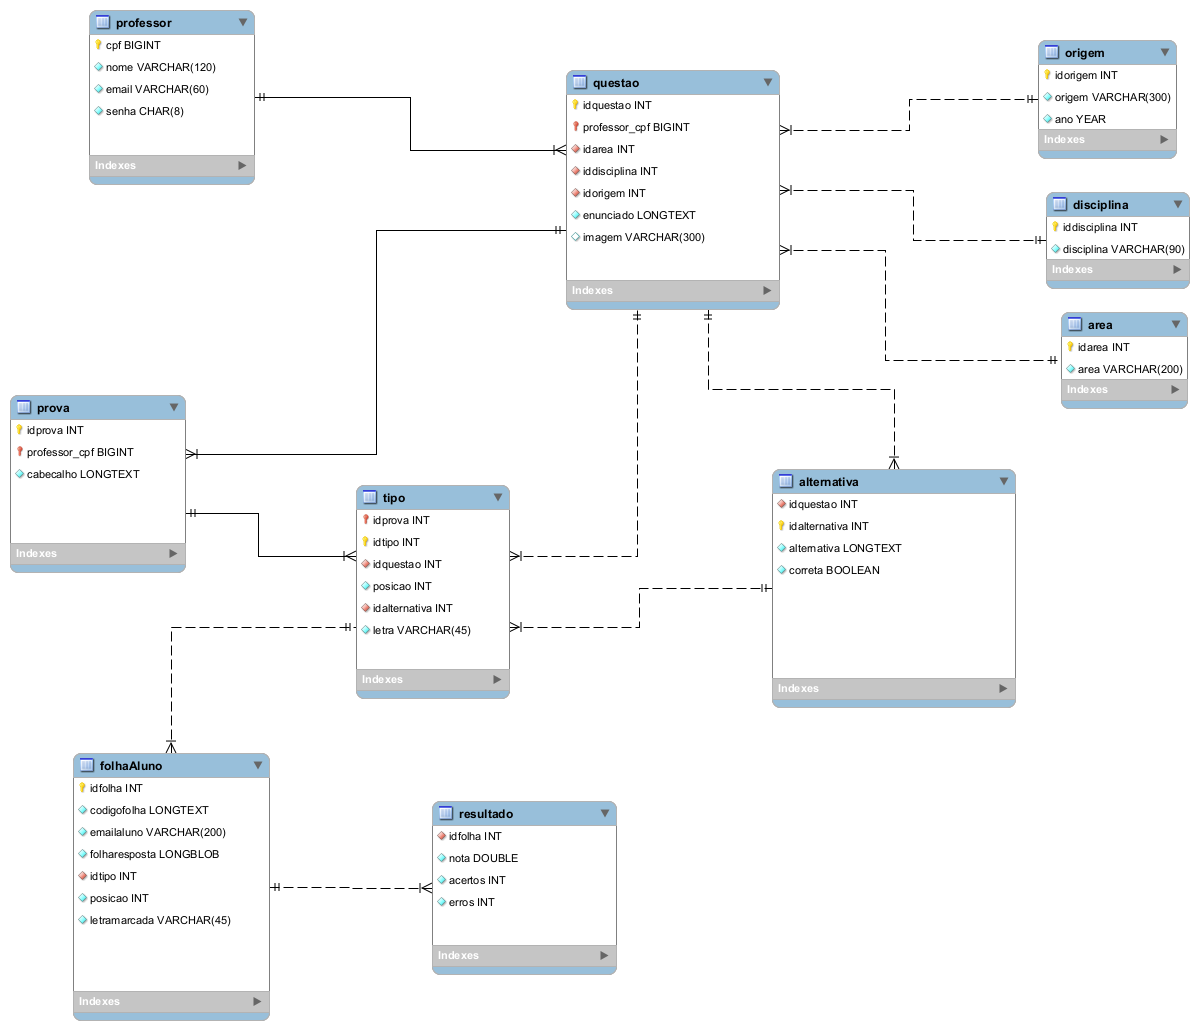
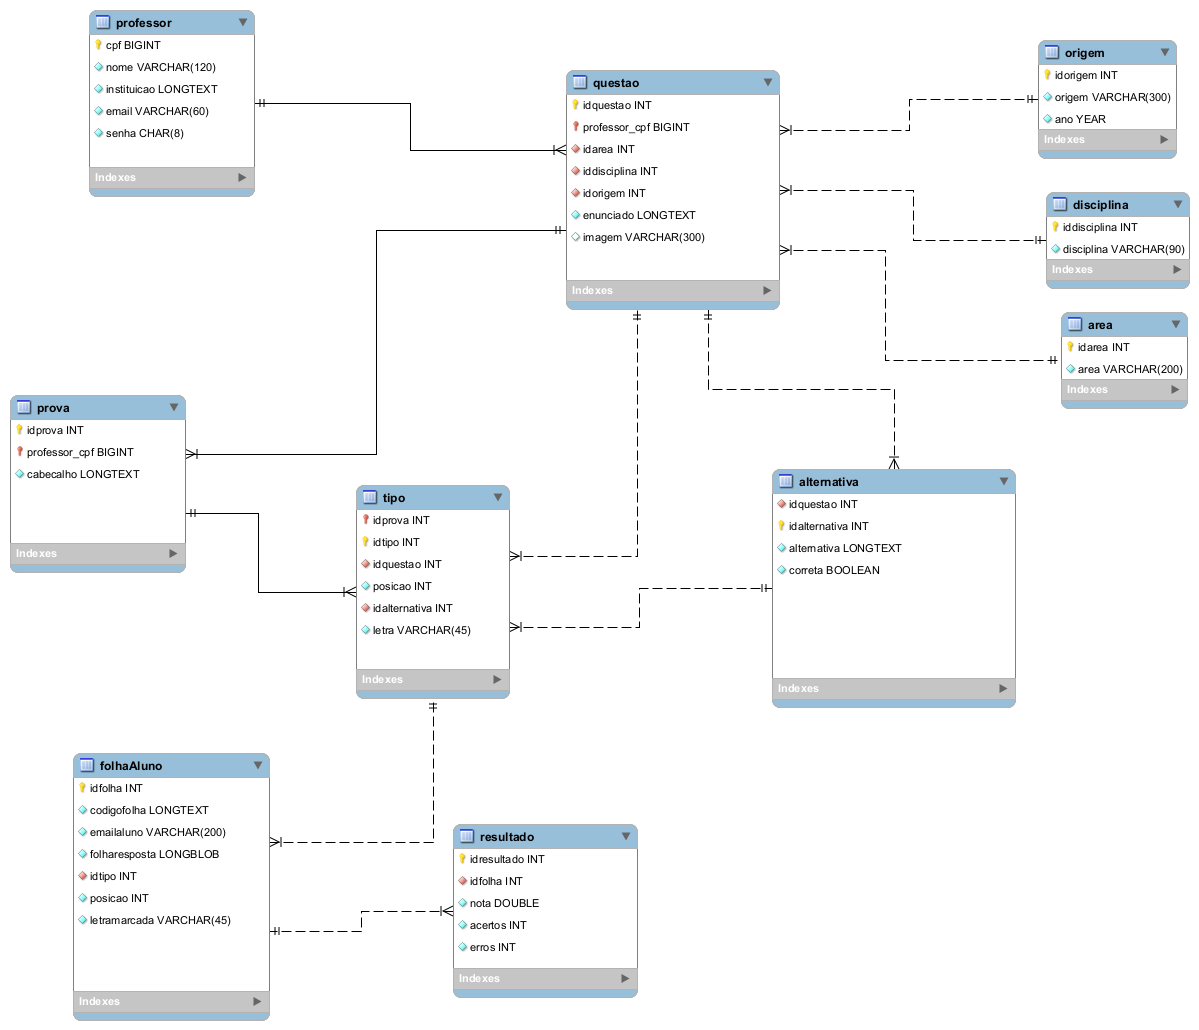
Classe Professor pronta

Changed region(s): [[0.3394, 0.7767, 0.5555, 0.9942], [0.0617, 0.0621, 0.216, 0.2175]]

diff --git a/code/src/gerador_provas/dao/ProfessorDAO.java b/code/src/gerador_provas/dao/ProfessorDAO.java
@@ -2,6 +2,7 @@ package gerador_provas.dao;
 
 import java.sql.Connection;
 import java.sql.PreparedStatement;
+import java.sql.ResultSet;
 import java.sql.SQLException;
 
 import gerador_provas.conexao.Conexao;
@@ -16,19 +17,47 @@ public class ProfessorDAO {
 		this.conexao = new Conexao().getConexao();
 	}
 	
-	public void inserirProfessor(Professor oProfessor) {
-		String sql = "INSERT INTO professor (cpf, nome, email, senha) VALUES (?, ?, ?, ?)";
+	public void cadastrar(Professor oProfessor) {
+		String sql = "INSERT INTO professor (cpf, nome, instituicao, email, senha) VALUES (?, ?, ?, ?, ?)";
 		try {
 			stmt = conexao.prepareStatement(sql);
-			stmt.setInt(1, oProfessor.getCpf());
+			stmt.setLong(1, oProfessor.getCpf());
 			stmt.setString(2, oProfessor.getNome());
-			stmt.setString(3, oProfessor.getEmail());
-			stmt.setString(4, oProfessor.getSenha());
+			stmt.setString(3, oProfessor.getInstituicao());
+			stmt.setString(4, oProfessor.getEmail());
+			stmt.setString(5, oProfessor.getSenha());
 			stmt.execute();
 			stmt.close();
 		} catch (SQLException e) {
 			throw new RuntimeException("Erro: " + e);
+		}	
+	}
+	
+	public Professor pesquisar(Professor professor) {
+		String sql = "select * from professor where cpf = ?";
+		try {
+			stmt = conexao.prepareStatement(sql);
+			stmt.setLong(1, professor.getCpf());
+			ResultSet rs = stmt.executeQuery();
+			
+			
+			if(rs.next()) {
+				Professor professorResul = new Professor(rs.getLong("cpf"),rs.getString("nome"), rs.getString("instituicao"), rs.getString("email"), rs.getString("senha"));
+				stmt.close();
+	            return professorResul;
+			}
+			else { 
+				Professor professorResul = new Professor(0, null, null, null, null);
+				stmt.close();
+	            return professorResul;
+			}
+			
+            
+		}catch(Exception e) {
+			throw new RuntimeException(e);
 		}
 		
-	}
+	} // Fim Pesquisa
+	
+	
 }

diff --git a/code/src/gerador_provas/teste/TesteQuestao.java b/code/src/gerador_provas/teste/TesteQuestao.java
@@ -1,23 +1,13 @@
 package gerador_provas.teste;
 
 
-import gerador_provas.conexao.Conexao;
-
 import gerador_provas.model.Area;
-
 import gerador_provas.model.Questao;
-<<<<<<< HEAD
-
-import java.sql.PreparedStatement;
-
-=======
 import gerador_provas.control.AreaController;
 import gerador_provas.control.DisciplinaController;
 import gerador_provas.control.OrigemController;
->>>>>>> 974248c8d2eecf9aa475acae4271e0a9575db05e
 import gerador_provas.dao.QuestaoDAO;
 import gerador_provas.model.Alternativa;
-import gerador_provas.model.Area;
 import gerador_provas.model.Disciplina;
 import gerador_provas.model.Origem;
 import gerador_provas.model.Professor;
@@ -31,6 +21,11 @@ public class TesteQuestao {
 		
 		
 		Professor professor = new Professor(32456789143L, "Luiz Fernando", "Colégio Rua XX", "luizfernando@gmail.com", "abcd1234");
+		
+		Origem origem = new Origem("ENEM", 2018);
+		OrigemController origemc = new OrigemController();
+		int idorigem = origemc.insere(origem);
+		
 		
 		String enunciado = "Tanto os Jogos Olímpicos quanto os Paralímpicos são mais que uma corrida por recordes, medalhas e busca de "
 				+ "excelência. Por trás deles está a filosofia do barão Pierre de Coubertin, fundados do Movimento Olímpico. "

diff --git a/code/src/gerador_provas/dao/QuestaoDAO.java b/code/src/gerador_provas/dao/QuestaoDAO.java
@@ -20,14 +20,15 @@ public class QuestaoDAO {
 	}
 	
 	public void cadastrar(Questao questao) {
-		String sql = "insert into questao (professor_cpf, idarea, iddisciplina, idorigem, imagem) values (?,?,?,?,?)";
+		String sql = "insert into questao (professor_cpf, idarea, iddisciplina, idorigem, enunciado, imagem) values (?,?,?,?,?,?)";
 		try {
 			stmt = conexao.prepareStatement(sql);
-			stmt.setInt(1,questao.getProfessor().getCpf() );
+			stmt.setLong(1,questao.getProfessor().getCpf() );
 			stmt.setInt(2, questao.getArea().getIdarea());
 			stmt.setInt(3,questao.getDisciplina().getIddisciplina());
-			stmt.setString(4, questao.getOrigem().getOrigem());
-			stmt.setBlob(5, questao.getImagem());
+			stmt.setInt(4, questao.getOrigem().getIdorigem());
+			stmt.setString(5, questao.getEnunciado());
+			stmt.setBlob(6, questao.getImagem());
 			stmt.execute(); 
 			stmt.close();
 		}catch(Exception e) {

diff --git a/code/src/gerador_provas/control/ProfessorController.java b/code/src/gerador_provas/control/ProfessorController.java
@@ -1,0 +1,20 @@
+package gerador_provas.control;
+
+import gerador_provas.dao.ProfessorDAO;
+import gerador_provas.model.Professor;
+
+public class ProfessorController {
+	public long insere(Professor professor) {
+		ProfessorDAO professorDAO = new ProfessorDAO();
+		Professor resultado = professorDAO.pesquisar(professor); 
+		
+		if(resultado.getCpf() == professor.getCpf() || resultado.getEmail().equals(professor.getEmail())) {
+			return resultado.getCpf();
+		}
+		else {
+			professorDAO.cadastrar(professor);
+			Professor resul = professorDAO.pesquisar(professor);
+			return resul.getCpf();
+		}
+	}
+}

diff --git a/code/src/gerador_provas/model/Questao.java b/code/src/gerador_provas/model/Questao.java
@@ -43,14 +43,13 @@ public class Questao
   
 
 
-  public Questao(Professor professor, String enunciado, Alternativa[] alternativa, Origem origem, Area area, Disciplina disciplina, Blob imagem) {
+  public Questao(Professor professor, String enunciado, Alternativa[] alternativa, Origem origem, Area area, Disciplina disciplina) {
 	  this.professor = professor;  
 	  this.enunciado = enunciado;
 	  this.origem = origem;
 	  this.area = area;
 	  this.disciplina = disciplina;
 	  this.alternativa = alternativa;
-	  this.imagem = imagem;
   }  
   
 }

diff --git a/code/src/gerador_provas/teste/TesteProfessor.java b/code/src/gerador_provas/teste/TesteProfessor.java
@@ -1,0 +1,17 @@
+package gerador_provas.teste;
+import gerador_provas.model.Professor;
+import gerador_provas.control.ProfessorController;
+
+public class TesteProfessor {
+
+	public static void main(String[] args) {
+		
+		Professor professor = new Professor(5235087130L, "Francisco Santos", "UEG", "mirelleamaral@ifgoiano.edu.br", "ABC123");
+		ProfessorController professorc = new ProfessorController();
+		long resultado = professorc.insere(professor);
+		
+	
+		System.out.println(resultado + "\nFim da execução");
+	}
+
+}

diff --git a/code/src/gerador_provas/teste/TesteOrigem.java b/code/src/gerador_provas/teste/TesteOrigem.java
@@ -7,6 +7,7 @@ import gerador_provas.model.Origem;
 public class TesteOrigem {
 	
 	public static void main(String[] args) {
+		
 		OrigemController origemc = new OrigemController();
 		Scanner input = new Scanner(System.in);
 		String origemTexto;

diff --git a/code/src/gerador_provas/model/Professor.java b/code/src/gerador_provas/model/Professor.java
@@ -16,7 +16,7 @@ public class Professor {
     	this.senha = senha;
     }
     
-    public int getCpf() {
+    public long getCpf() {
         return Cpf;
     }
     public void setCpf(int Cpf) {
